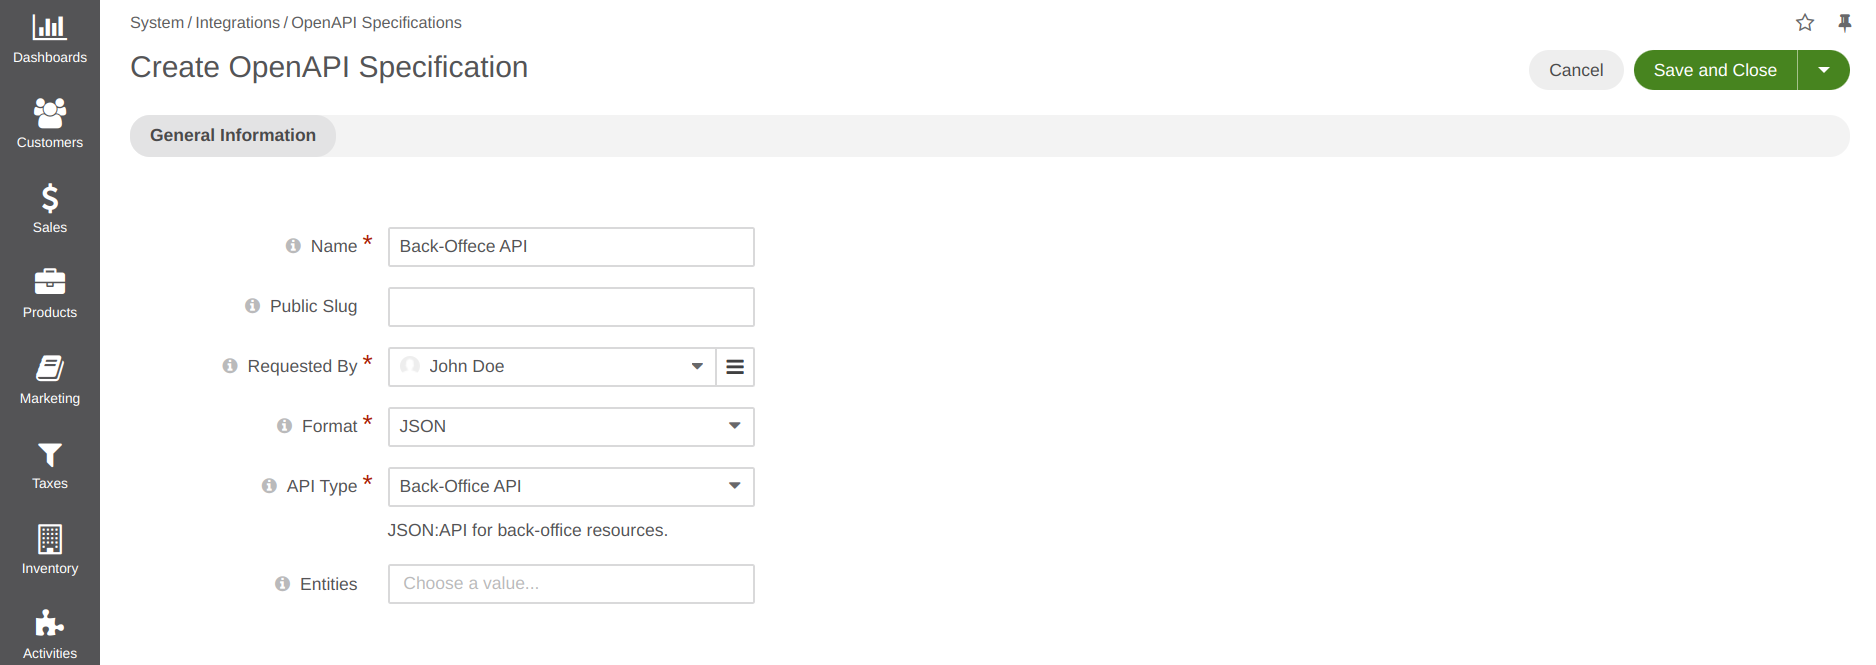
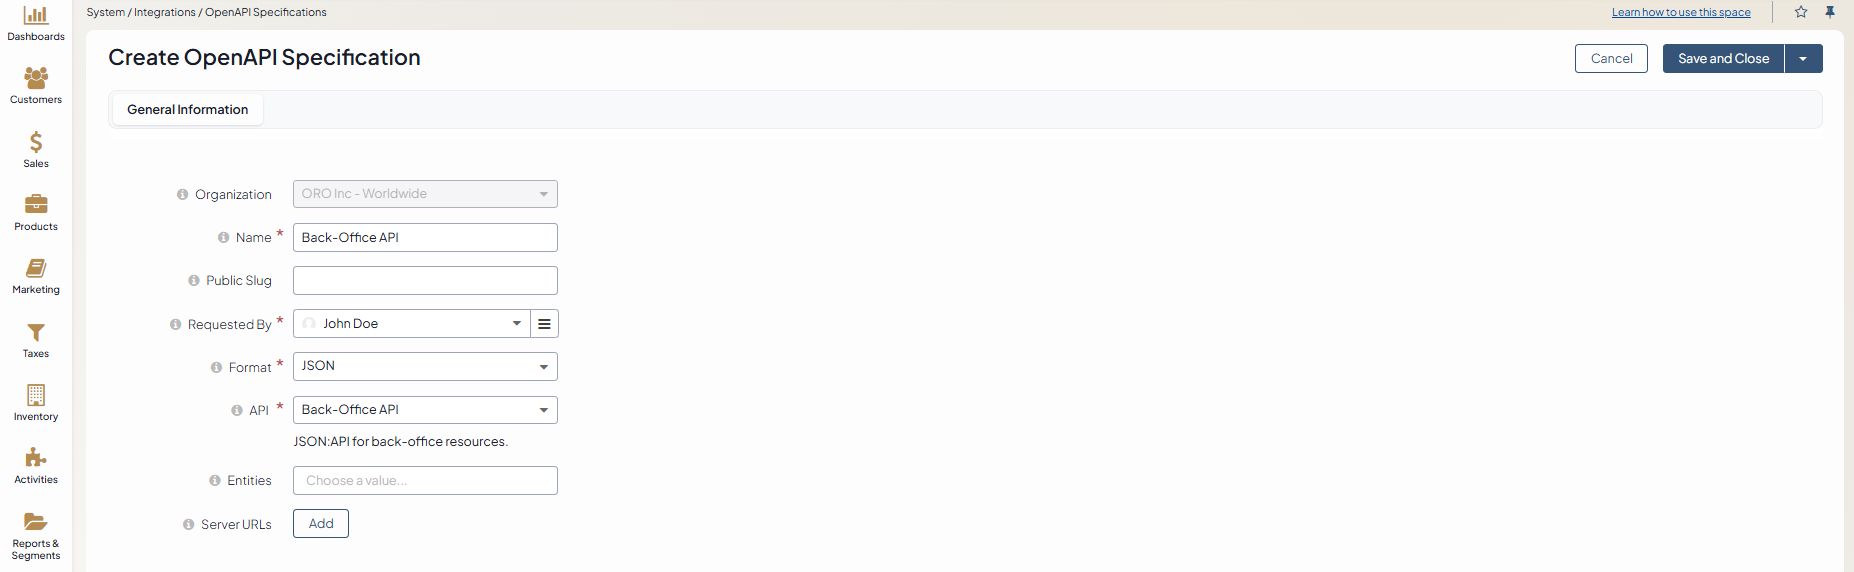
BAP-23281: Rename "API Type (View)" field to "API" for OpenAPI specification management (#43962)

diff --git a/user/back-office/system/integrations/openapi-specifications/index.rst b/user/back-office/system/integrations/openapi-specifications/index.rst
@@ -20,7 +20,7 @@ In order to create a new OpenAPI specification:
    * **Public Slug** --- The URL slug for downloading the OpenAPI specification without authorization. When the slug is not specified the unauthorized access is not permitted.
    * **Requested By** --- A user who requested the OpenAPI specification.
    * **Format** --- The format in which the OpenAPI specification should be created, e.g. JSON or YAML.
-   * **API Type (View)** --- The API type for which the OpenAPI specification should be created, e.g. "Back-Office API" or "Storefront API".
+   * **API** --- The API for which the OpenAPI specification should be created, e.g. "Back-Office API" or "Storefront API".
    * **Entities** --- The list of entities for which the OpenAPI specification should be created. When no entity is specified, the specification is created for all entities.
    * **Server URLs** --- The list of server URLs that should be added to the OpenAPI specification.
 
